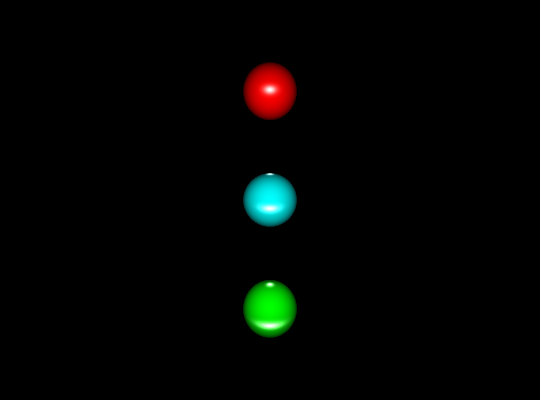
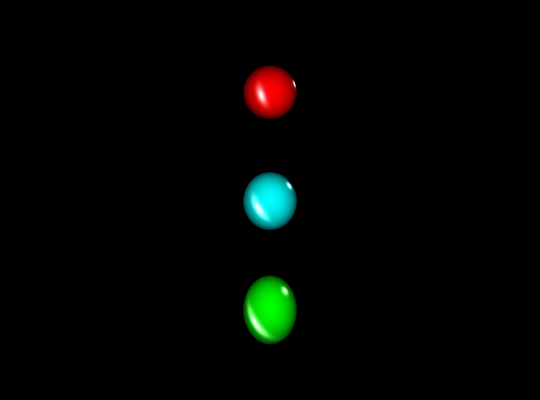
Began making bouncing of the light

diff --git a/lib.py b/lib.py
@@ -63,8 +63,14 @@ class Vector:
     def as_tuple(self, rounded: bool):
 
         if rounded:
+
             return round(self.x), round(self.y), round(self.z)
+        
         return self.x, self.y, self.z
+
+    def multiply_colors(self, other):
+
+        return Vector(round(255 * self.x / 255 * other.x / 255), round(255 * self.y / 255 * other.y / 255), round(255 * self.z / 255 * other.z / 255))
 
 class Window:
 
@@ -83,8 +89,6 @@ class Window:
         self.x_step = (self.right_side - self.left_side) / (self.size_x - 1)
         self.y_step = (self.downside - self.upside) / ((self.size_y - 1))
          
-
-
         files = os.listdir("./static")
 
         if  name not in files:
@@ -93,18 +97,6 @@ class Window:
             
             self.img = Image.new("RGB", (size_x, size_y), (0, 0, 0))
             self.img.save(f"static/{name}.png")
-
-
-    def coordinate_translator(self, point: Vector, pillow_to_real: bool):
-
-        half_width = self.size_x / 2
-        half_height = self.size_y / 2
-
-        if pillow_to_real:
-
-            return Vector((point.x - half_width) / (half_width) , (point.y + half_height) / (half_height * self.aspect_ratio)) 
-        
-        return Vector((point.x + half_width) / (half_width) , (point.y - half_height) / (half_height * self.aspect_ratio))
 
 class Ray:
 
@@ -144,15 +136,11 @@ class Scene:
         
         pixels = self.window.img.load()
 
-        for shape in self.shapes:
-
-            if isinstance(shape, Sphere):
-
-                self.ray_trace_sphere(shape, pixels)
+        self.ray_trace_sphere(self.shapes, pixels)
     
         self.window.img.save(f"static/{self.window.name}.png")
 
-    def ray_trace_sphere(self, shape: Sphere, pixels):
+    def ray_trace_sphere(self, shapes: list, pixels):
         
         screen_size = self.window.size_y * self.window.size_x
 
@@ -163,35 +151,73 @@ class Scene:
             for j in range(self.window.size_x):
                 
                 x = self.window.left_side + self.window.x_step * j
-                sphere_to_ray = self.camera - shape.center
+
                 ray = Ray(self.camera, Vector(x, y, 0) - self.camera)
 
-                b = 2 * ray.direction.dot_product(sphere_to_ray)
-                c = sphere_to_ray.dot_product(sphere_to_ray) - shape.radius ** 2
-                discriminant = b ** 2 - 4 * c
+                self.ray_bounce(j, i, ray, shapes, self.light.color, pixels, 0)
+                
+                print(f"{100 * (i  * self.window.size_x + j) // screen_size}", end="%\r")
+    
+    def ray_bounce(self, j: int, i: int, ray: Ray, shapes: list, light_color: Vector, pixels, reflected_colors: list, amount_of_calls: int):
 
-                if discriminant >= 0:
+        if amount_of_calls == 3:
 
-                    distance = (-b - sqrt(discriminant)) / 2
-                    
-                    if distance > 0:
+            pixels[j, i] = pixels[j, i][0] // 3, pixels[j, i][1] // 3, pixels[j, i][2] // 3
 
-                        hit_position = ray.origin + ray.direction * distance
-                        color_diffused = self.diffuse_sphere(shape, ray, hit_position, shape.color)
-                        color_specular_shaded = self.specular_shading_sphere(shape, ray, hit_position)
+            return True
+        
+        for shape in shapes:
 
-                        color_final = shape.color * 0 + color_diffused + color_specular_shaded
+            distance = self.does_ray_hit(ray, shape)
 
-                        pixels[j, i] = color_final.as_tuple(True)
-                        print(f"{100 * (i * self.window.size_x + j) // screen_size} %", end="\r")
+            if distance != None and distance > 0:
 
+                hit_position = ray.origin + ray.direction * distance
+
+                color_diffused = self.diffuse_sphere(shape, ray, hit_position, shape.color)
+                color_specular_shaded = self.specular_shading_sphere(shape, ray, hit_position, light_color)
+
+                color_final = shape.color * 0 + color_diffused + color_specular_shaded
+                color_final = shape.color.multiply_colors(color_final)
+                reflected_colors.append(color_final)
+                
+                normal_ray = hit_position - shape.center
+                normal_ray = normal_ray.normalize()
+                ray_normalized = ray.normalize() * -1
+                reflected_ray = self.reflect_ray(normal_ray, ray_normalized).normalize()
+
+                self.ray_bounce(j, i, reflected_ray, shapes, color_final, pixels, reflected_colors, amount_of_calls + 1)
+
+        if amount_of_calls > 1:
+
+            pixels[j, i] = pixels[j, i][0] // amount_of_calls, pixels[j, i][1] // amount_of_calls, pixels[j, i][2] // 3
+        
+        return True
+    
+    def does_ray_hit(self, ray: Ray, shape: Sphere):
+
+        sphere_to_ray = self.camera - shape.center
+        b = 2 * ray.direction.dot_product(sphere_to_ray)
+        c = sphere_to_ray.dot_product(sphere_to_ray) - shape.radius ** 2
+        discriminant = b ** 2 - 4 * c
+
+        if discriminant >= 0:
+
+            return (-b - sqrt(discriminant)) / 2
+        
+        return None
+
+    def reflect_ray(self, normal: Vector, incident: Vector):
+
+        return incident - normal * 2 * incident.dot_product(normal)
+    
     def diffuse_sphere(self, shape: Sphere, ray: Vector, hit_position, color: Vector):
         
         normal_vector = shape.center - hit_position
 
         return color * normal_vector.normalize().dot_product(ray.direction)
 
-    def specular_shading_sphere(self, shape: Sphere, ray: Vector, hit_position):
+    def specular_shading_sphere(self, shape: Sphere, ray: Vector, hit_position, color: Vector):
         
         normal_vector = shape.center - hit_position
         light_to_plane = hit_position - self.light.position
@@ -201,11 +227,10 @@ class Scene:
         light_to_plane = light_to_plane.normalize()
         viewer_vector = viewer_vector.normalize()
 
-        reflected = light_to_plane - normal_vector * 2 * light_to_plane.dot_product(normal_vector) 
+        reflected = self.reflect_ray(normal_vector, light_to_plane)
         light_to_plane *= -1
         halfway_vector = (light_to_plane + viewer_vector).normalize()
         blinn_term = halfway_vector.dot_product(reflected) ** 32
 
-
-        return self.light.color * blinn_term
+        return color * blinn_term
 

diff --git a/test.py b/test.py
@@ -33,8 +33,6 @@ def test_is_magnitude_correct():
 
     assert vector_a.magnitude() == 5.0
 
-
-
 def test_is_normalization_working():
 
     vector_a = Vector(3, 4, 0)
@@ -51,22 +49,35 @@ def test_is_dot_product_working():
 
     assert product == 11
 
-
 def test_render():
 
     window = Window(540, 400, "test")
     red_sphere = Sphere(Vector(0, -0.4, 0), 0.1, Vector(255, 0, 0), "Gold")
     yellow_sphere = Sphere(Vector(0, 0, 0), 0.1, Vector(0, 255, 255), "Gold")
     green_sphere = Sphere(Vector(0, 0.4, 0), 0.1, Vector(0, 255, 0), "Gold")
-    light = Light(Vector(0, window.upside, 0), Vector(255, 255, 255))
+    light = Light(Vector(1, window.upside, 0), Vector(255, 255, 255))
     objects = [red_sphere, yellow_sphere, green_sphere]
-    scene = Scene(window, objects, Vector(0, 0, -1), light, 0)
+    camera = Vector(0, -0.4, -1)
+    scene = Scene(window, objects, Vector(0, -0.4, -1), light, 0)
     scene.blit_image()
 
-test_render()
+def test_render_with_reflections():
+
+    window = Window(540, 400, "test")
+    red_sphere = Sphere(Vector(0, -0.4, 0), 0.1, Vector(255, 0, 0), "Gold")
+    yellow_sphere = Sphere(Vector(0, 0, 0), 0.1, Vector(0, 255, 255), "Gold")
+    green_sphere = Sphere(Vector(0, 0.4, 0), 0.1, Vector(0, 255, 0), "Gold")
+    light = Light(Vector(1, window.upside, 0), Vector(255, 255, 255))
+    objects = [red_sphere, yellow_sphere, green_sphere]
+    camera = Vector(0, 0, -1)
+    scene = Scene(window, objects, Vector(0, -0.4, -1), light, 0)
+    scene.blit_image()
+
 test_is_addition_working()
 test_is_subtraction_working()
 test_is_multiplication_working()
 test_is_magnitude_correct()
 test_is_normalization_working()
 test_is_dot_product_working()
+test_render()
+#test_render_with_reflections()
